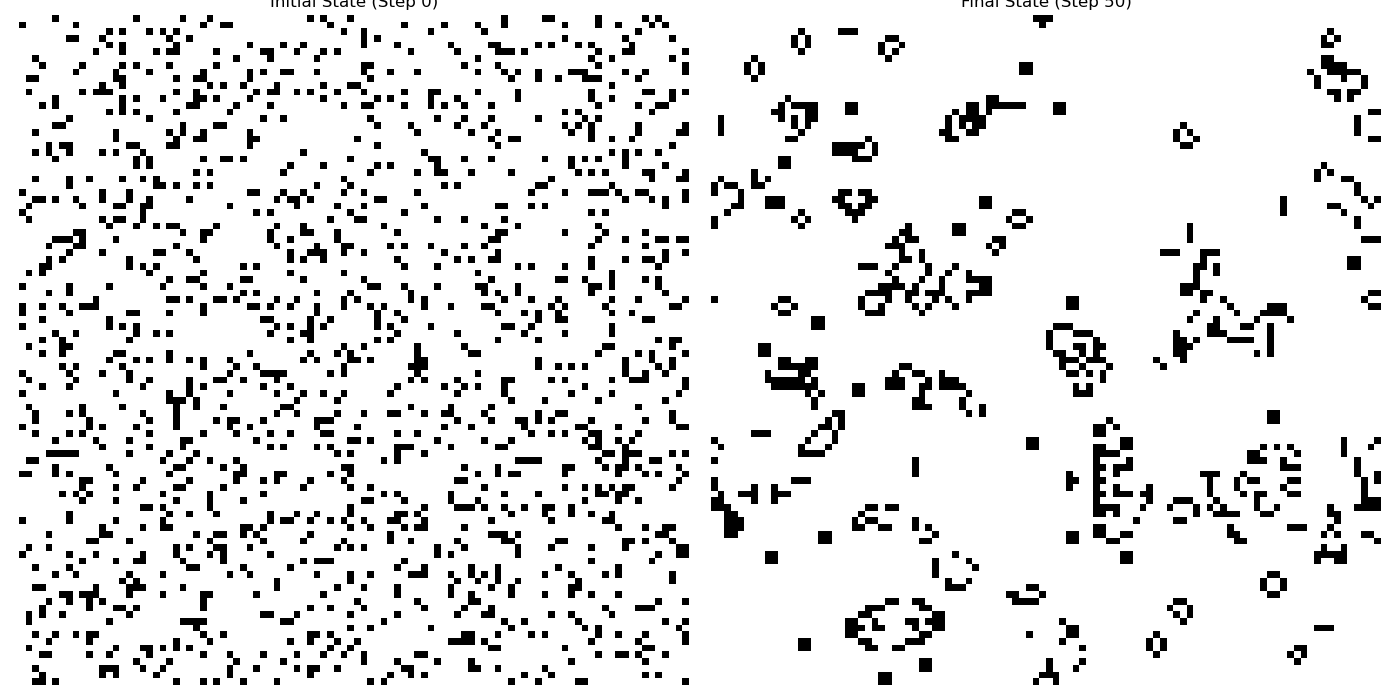
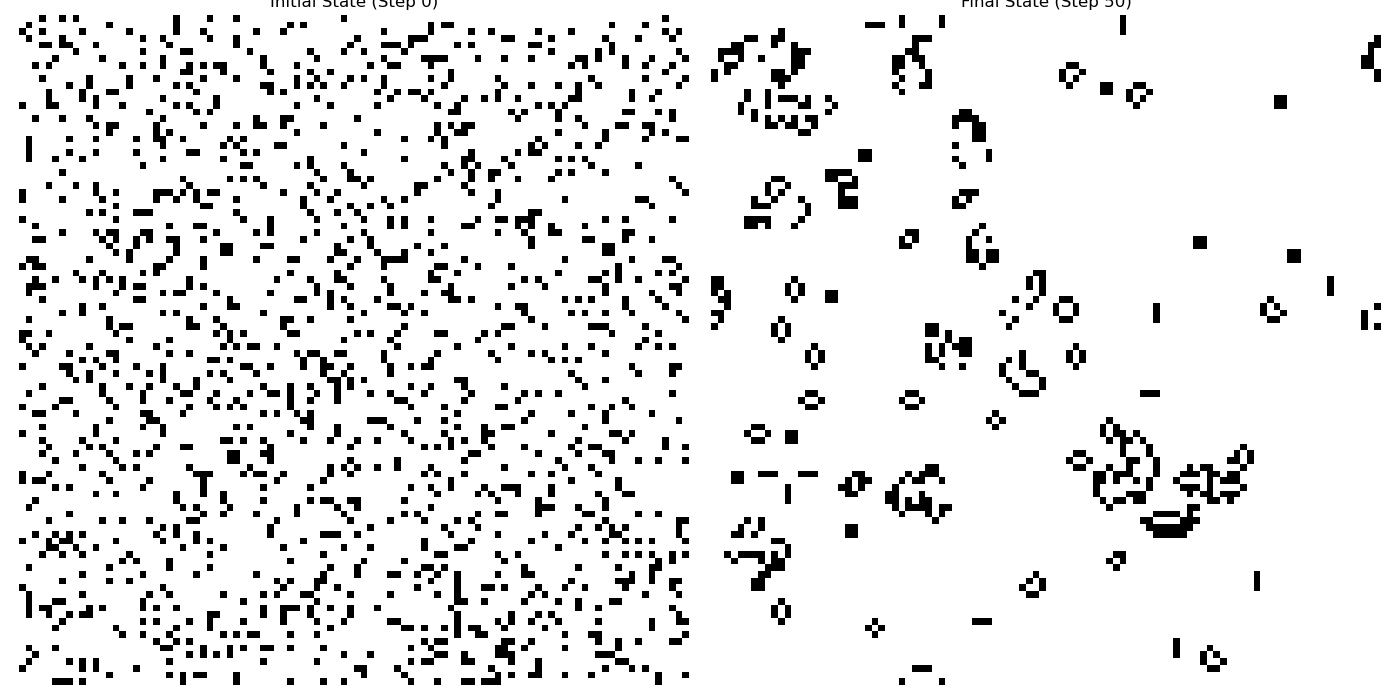
Add agentic session

diff --git a/mistralrs-core/src/engine/agentic_loop.rs b/mistralrs-core/src/engine/agentic_loop.rs
@@ -167,25 +167,6 @@ fn append_multimodal_tool_response(
 }
 
 /// Ensure a system message exists at the start of the conversation.
-/// Models need a system message alongside tool declarations to reliably
-/// trigger tool calls.
-fn ensure_system_message(messages: &mut Vec<IndexMap<String, MessageContent>>) {
-    let has_system = messages
-        .first()
-        .and_then(|m| m.get("role"))
-        .and_then(|r| match r {
-            Either::Left(s) => Some(s.as_str()),
-            _ => None,
-        })
-        .is_some_and(|r| r == "system" || r == "developer");
-    if !has_system {
-        let mut sys_msg: IndexMap<String, MessageContent> = IndexMap::new();
-        sys_msg.insert("role".to_string(), Either::Left("system".to_string()));
-        sys_msg.insert("content".to_string(), Either::Left(String::new()));
-        messages.insert(0, sys_msg);
-    }
-}
-
 /// Forward a non-chat-completion response to the user sender.
 /// Returns `true` if the response was forwarded (caller should return),
 /// `false` if it's a `Done` or `Chunk` that the caller should handle.
@@ -205,35 +186,8 @@ async fn forward_passthrough(
 }
 
 /// Save the current conversation state to the session store.
-///
-/// Strips a leading empty system message that `ensure_system_message` may have
-/// inserted, so that the stored history matches what the client actually sent.
 fn save_session(engine: &Arc<Engine>, session_id: &str, visible_req: &NormalRequest) {
-    let mut messages = get_messages(visible_req).clone();
-
-    // ensure_system_message inserts {role: "system", content: ""} at index 0
-    // when the client didn't send a system message. Strip it so the stored
-    // history matches what clients actually send on subsequent requests.
-    if let Some(first) = messages.first() {
-        let is_empty_system = first
-            .get("role")
-            .and_then(|r| match r {
-                Either::Left(s) => Some(s.as_str()),
-                _ => None,
-            })
-            .is_some_and(|r| r == "system")
-            && first
-                .get("content")
-                .and_then(|c| match c {
-                    Either::Left(s) => Some(s.as_str()),
-                    _ => None,
-                })
-                .is_some_and(|s| s.is_empty());
-        if is_empty_system {
-            messages.remove(0);
-        }
-    }
-
+    let messages = get_messages(visible_req).clone();
     let images = match &visible_req.messages {
         RequestMessage::MultimodalChat { images, .. } => images.clone(),
         _ => Vec::new(),
@@ -527,8 +481,6 @@ pub(super) async fn agentic_loop(this: Arc<Engine>, mut request: NormalRequest) 
         }
     }
 
-    // Models need a system message alongside tool declarations to reliably
-    ensure_system_message(get_messages_mut(&mut probe));
 
     probe.tool_choice = Some(ToolChoice::Auto);
     // Prevent accidental infinite recursion on the probe itself.